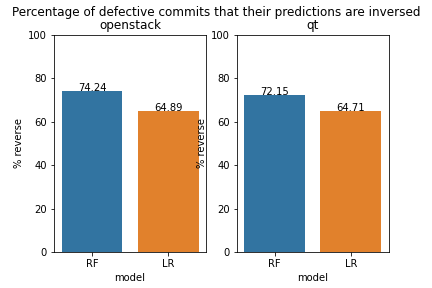
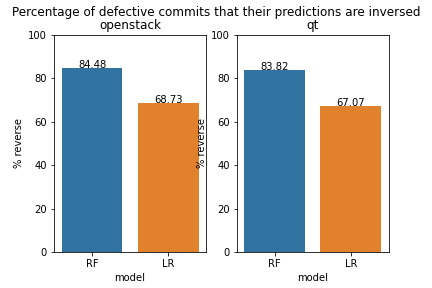
correct code for what-if analysis for final version

diff --git a/experiment/evaluation_function.py b/experiment/evaluation_function.py
@@ -738,51 +738,49 @@ def show_what_if_eval_result():
     openstack_rf = pd.read_csv(result_dir+'openstack_RF_combined_prob_from_guidance.csv')
     qt_rf = pd.read_csv(result_dir+'qt_RF_combined_prob_from_guidance.csv')
     result_rf = pd.concat([openstack_rf, qt_rf])
-    result_rf['global_model'] = 'RF'
-    
+
     openstack_lr = pd.read_csv(result_dir+'/openstack_LR_combined_prob_from_guidance.csv')
     qt_lr = pd.read_csv(result_dir+'/qt_LR_combined_prob_from_guidance.csv')
     result_lr = pd.concat([openstack_lr, qt_lr])
-#     result_lr['global_model'] = 'LR'
-    
+
     all_result = pd.concat([result_rf, result_lr])
-    
-    print(len(all_result),len(result_rf),len(result_lr))
-#     all_result['predOg'] = np.round(all_result['probOg']).astype(bool)
+
     all_result['predOg'] = all_result['probOg'] >= 0.5
     all_result['predSD'] = all_result['probRevisedSD'] >= 0.5
 
     pred_og = list(all_result['predOg'])
     pred_sd = list(all_result['predSD'])
-    
+
     compare_list = []
-    
+
     for a,b in zip(pred_og, pred_sd):
         compare_list.append(a!=b)
-        
+
     all_result['isFlip'] = compare_list
-    all_result_only_flip = all_result[all_result['isFlip']==True]
-    
-    all_result_only_flip['prob_diff'] = (all_result_only_flip['probOg']-all_result_only_flip['probRevisedSD'])*100
-    
-    openstack_result_only_flip = all_result_only_flip[all_result_only_flip['project']=='openstack']
-    qt_result_only_flip = all_result_only_flip[all_result_only_flip['project']=='qt']
-    
-    openstack_rf_df = all_result[(all_result['model']=='RF') & (all_result['project']=='openstack')]
-    openstack_lr_df = all_result[(all_result['model']=='LR') & (all_result['project']=='openstack')]
-    qt_rf_df = all_result[(all_result['model']=='RF') & (all_result['project']=='qt')]
-    qt_lr_df = all_result[(all_result['model']=='LR') & (all_result['project']=='qt')]
-    
-    openstack_rf_reverse_percent = np.mean(list(openstack_rf_df['isFlip']))*100
-    openstack_lr_reverse_percent = np.mean(list(openstack_lr_df['isFlip']))*100
-    qt_rf_reverse_percent = np.mean(list(qt_rf_df['isFlip']))*100
-    qt_lr_reverse_percent = np.mean(list(qt_lr_df['isFlip']))*100
-    
+    all_result['prob_diff'] = (all_result['probOg']-all_result['probRevisedSD'])*100
+
+    all_result_prob_change = all_result[all_result['prob_diff']>=0]
+
+    openstack_result_prob_change = all_result_prob_change[all_result_prob_change['project']=='openstack']
+    qt_result_prob_change = all_result_prob_change[all_result_prob_change['project']=='qt']
+
+    df_list = list(all_result_prob_change.groupby(['project','model']))
+
+    openstack_lr = df_list[0][1]
+    openstack_rf = df_list[1][1]
+    qt_lr = df_list[2][1]
+    qt_rf = df_list[3][1]
+
+    openstack_rf_reverse_percent = np.mean(list(openstack_rf['isFlip']))*100
+    openstack_lr_reverse_percent = np.mean(list(openstack_lr['isFlip']))*100
+    qt_rf_reverse_percent = np.mean(list(qt_rf['isFlip']))*100
+    qt_lr_reverse_percent = np.mean(list(qt_lr['isFlip']))*100
+
     openstack_reverse_percent_df = pd.DataFrame()
     openstack_reverse_percent_df = openstack_reverse_percent_df.append(pd.Series(['RF', openstack_rf_reverse_percent]), ignore_index=True)
     openstack_reverse_percent_df = openstack_reverse_percent_df.append(pd.Series(['LR', openstack_lr_reverse_percent]), ignore_index=True)
     openstack_reverse_percent_df.columns = ['model','% reverse']
-    
+
     qt_reverse_percent_df = pd.DataFrame()
     qt_reverse_percent_df = qt_reverse_percent_df.append(pd.Series(['RF', qt_rf_reverse_percent]), ignore_index=True)
     qt_reverse_percent_df = qt_reverse_percent_df.append(pd.Series(['LR', qt_lr_reverse_percent]), ignore_index=True)
@@ -790,46 +788,46 @@ def show_what_if_eval_result():
 
     # plot probability difference
     plt.figure()
-    
+
     fig, axs = plt.subplots(1,2)
-    
+
     fig.suptitle('Probability difference between actual prediction and simulated prediction')
     axs[0].set(ylim=(0, 100))
     axs[1].set(ylim=(0, 100))
-    
+
     axs[0].set_title('openstack')
     axs[1].set_title('qt')
-    
-    sns.boxplot(x='model',y='prob_diff', data=openstack_result_only_flip, ax=axs[0])
-    sns.boxplot(x='model',y='prob_diff', data=qt_result_only_flip, ax=axs[1])
-    
+
+    sns.boxplot(x='model',y='prob_diff', data=openstack_result_prob_change, ax=axs[0])
+    sns.boxplot(x='model',y='prob_diff', data=qt_result_prob_change, ax=axs[1])
+
     plt.show()
-    
+
     fig.savefig(fig_dir+'what_if_prob_diff.png')
-    
+
     # plot percentage of reversed predictions
     plt.figure()
-    
+
     fig, axs = plt.subplots(1,2)
-    
+
     fig.suptitle('Percentage of defective commits that their predictions are inversed')
-    
+
     axs[0].set(ylim=(0, 100))
     axs[1].set(ylim=(0, 100))
-    
+
     axs[0].set_title('openstack')
     axs[1].set_title('qt')
-    
+
     sns.barplot(x='model',y='% reverse', data=openstack_reverse_percent_df, ax=axs[0])
     sns.barplot(x='model',y='% reverse', data=qt_reverse_percent_df, ax=axs[1])
-    
+
     for index, row in openstack_reverse_percent_df.iterrows():
         axs[0].text(row.name,row['% reverse'], round(row['% reverse'],2), color='black', ha="center")
-        
+
     for index, row in qt_reverse_percent_df.iterrows():
         axs[1].text(row.name,row['% reverse'], round(row['% reverse'],2), color='black', ha="center")
-    
+
     plt.show()
-    
+
     fig.savefig(fig_dir+'what_if_percent_reverse_prediction.png')
     
